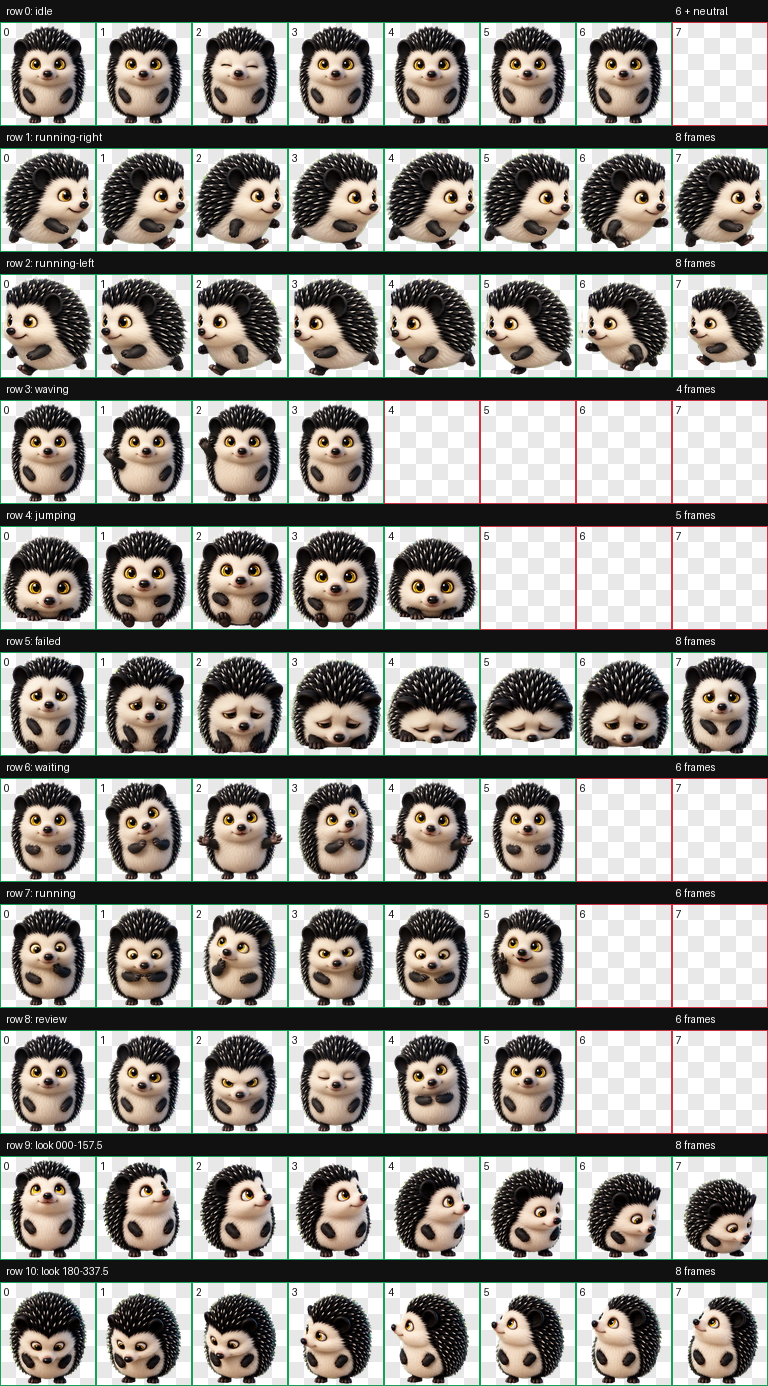
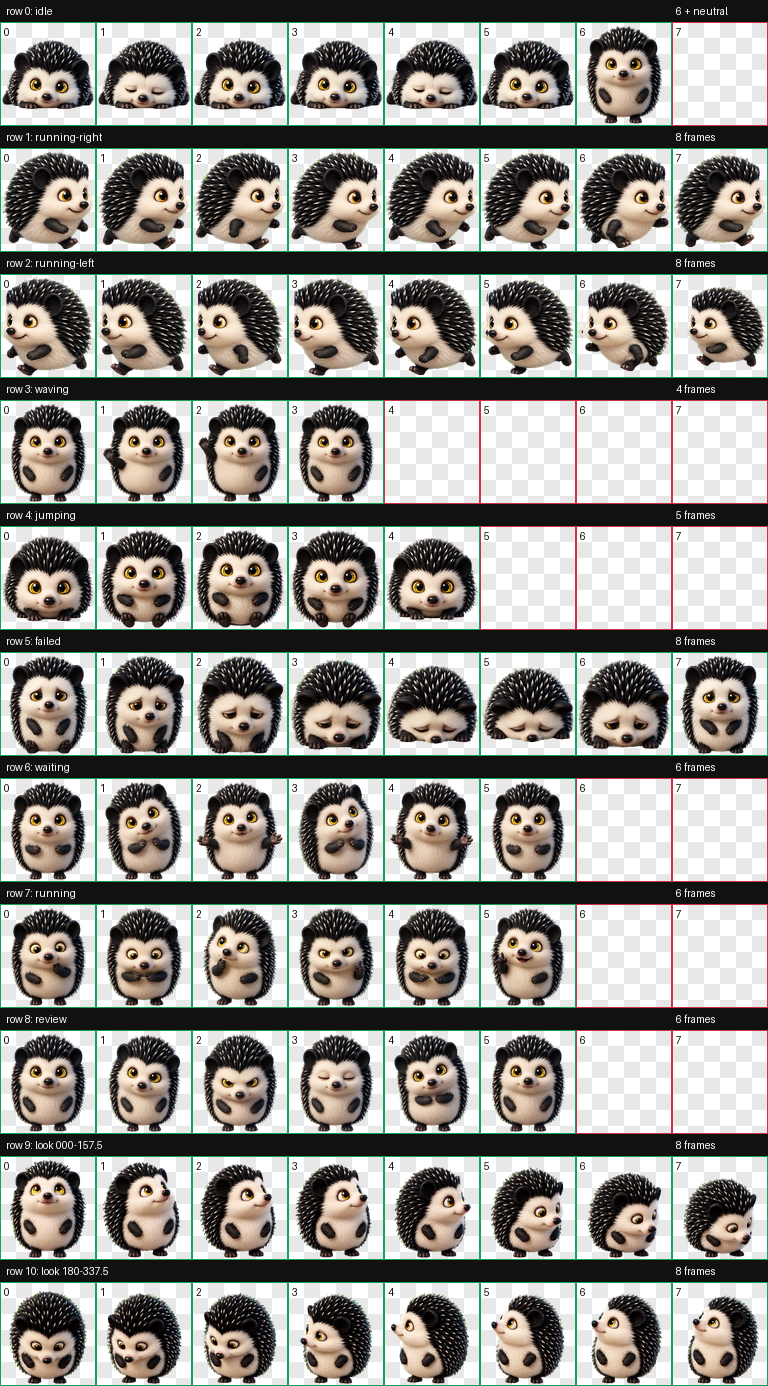
Update Noir resting behavior

diff --git a/README.md b/README.md
@@ -23,3 +23,9 @@ Restart Codex if Noir does not appear immediately.
 - Cell size: `192 × 208`
 
 The package includes the standard animation states and 16 clockwise look directions.
+
+## Behavior
+
+- Default idle: Noir lies comfortably on his belly.
+- Blink rhythm: two gentle blinks during each idle loop.
+- Hover: Noir rises from the resting pose, stands briefly, then settles back down.